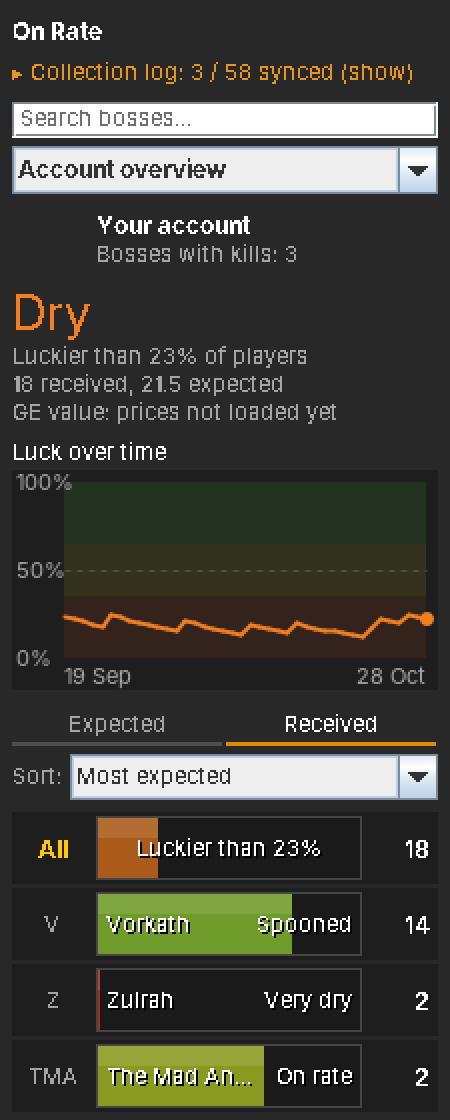
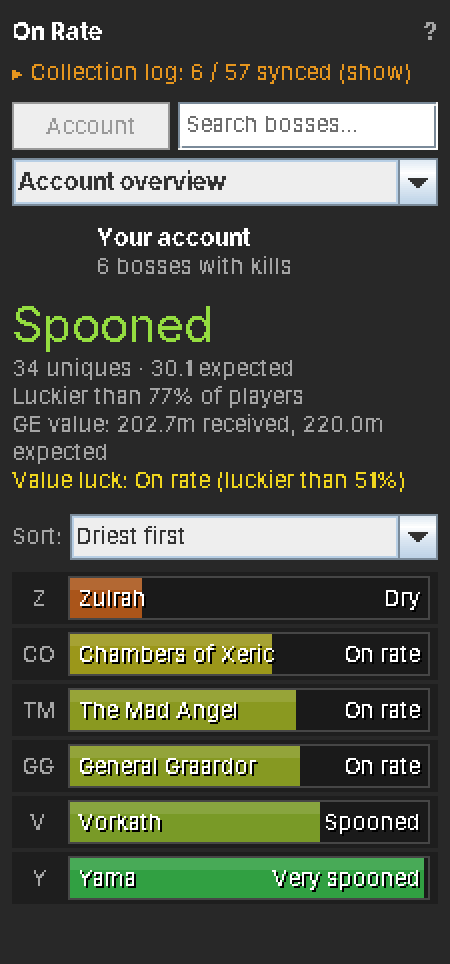
Add files via upload

diff --git a/README.md b/README.md
@@ -6,10 +6,9 @@
 > The Delve Calculator shows expected vs received drops for Doom of Mokhaiotl, and On Rate exists because that panel was so good that I wanted it for every boss. The layout, the Expected/Received split and the per-level Doom rates all come from Speaax's work. If you mainly do Doom, go and install the Delve Calculator too: it has Doom-specific features this plugin doesn't. See [Credits](#credits).
 
 <p>
-<img src="docs/doom-expected.png" width="225" alt="Doom of Mokhaiotl, Expected tab">
-<img src="docs/doom-received.png" width="225" alt="Doom of Mokhaiotl, Received tab">
-<img src="docs/vorkath-expected.png" width="225" alt="Vorkath, Expected tab">
-<img src="docs/vorkath-received.png" width="225" alt="Vorkath, Received tab">
+<img src="docs/boss-page.png" width="225" alt="Boss page">
+<img src="docs/account-overview.png" width="225" alt="Account overview">
+<img src="docs/extras.png" width="225" alt="Boss page with the trip card and drop history turned on">
 </p>
 
 ## Features
@@ -18,10 +17,11 @@
 - **Works out of the box.** Your kill count updates after every kill, and new drops are picked up automatically.
 - **Imports your history** from your collection log, so you don't start from zero.
 - **Luck percentile:** see how your drops compare with every other player at the same kill count.
-- **An "Any" row** that combines all of a boss's uniques.
+- **An "Any unique" row** that combines all of a boss's uniques.
 - **A verdict for every boss**, from "Very dry" to "Very spooned", in big letters at the top.
+- **A clean layout:** one bar per item shows what you got against where you should be. Prefer another look? Choose the Delve Calculator's bars, a compact table, chance rings or a luck gauge.
 - **Account overview:** every boss added up into one total, with a row per boss that you can sort (driest first, luckiest first...), plus **GE value luck**, so two twisted bows count for more than a pile of cheap drops.
-- **Luck graph:** how your account's luck changes day by day.
+- **Optional extras:** a luck graph, a "this trip" card, drop history timelines, an in-game overlay and colour-blind colours.
 - **Uses your raid points:** read from the game in Chambers of Xeric and estimated from your damage in Tombs of Amascut, so each raid gets its own purple chance. Based on [Raid Data Tracker](https://github.com/Raitab/raid-data-tracker) (see [Credits](#credits)).
 - **Search box:** type "vork", "cox" or "kril" to jump to a boss.
 - **Dry streaks:** hover any item to see how many kills since your last copy, and how many times the drop rate that is.
@@ -49,40 +49,43 @@ The first time you open the panel, a short welcome guide walks you through this.
 
 ## Reading the panel
 
-Pick a boss from the dropdown, or let the panel follow your kills. To find a boss quickly, type in the search box above the dropdown: part of the name ("vork", "kril") or the usual short name ("cox", "tob", "toa", "dk"). Enter opens the first match.
+Pick a boss from the dropdown, or let the panel follow your kills. To find a boss quickly, type in the search box above the dropdown: part of the name ("vork", "kril") or the usual short name ("cox", "tob", "toa", "dk"). Enter opens the first match. The **Account** button next to it always takes you back to the account overview. The **?** at the top right explains what you're looking at.
 
-At the top you see the boss, your kill count and the **verdict** in big letters: Very dry, Dry, On rate, Spooned or Very spooned. Under it, how lucky you are compared with other players and how many uniques you got against how many you should have.
+### Boss page
+
+- At the top: the boss, your kill count and the **verdict** in big letters: Very dry, Dry, On rate, Spooned or Very spooned. Under it, how many uniques you got against how many you should have, and how you compare with other players at the same kill count ("luckier than 70%" means 70% of them have fewer drops than you).
+- Then one row per item, with **Any unique** first. The bar's fill is how many you got; the **white line** is how many you should have by now. Behind the line is dry, past it is spooned.
+- **Hover an item** for its drop rate, your chance of having it by now, how many kills give a 50% or 90% chance, and your **dry streak**: kills since your last copy and how many times the drop rate that is. If your last copy dropped before you installed On Rate, it says "at least".
 
 ### Account overview
 
-The first entry in the dropdown, and what the panel opens on. It adds up every boss you have kills at:
+What the panel opens on. It adds up every boss you have kills at:
 
-<img src="docs/account-overview.png" width="225" alt="Account overview with the luck graph">
+- The **verdict** at the top is your whole account.
+- **GE value** compares the Grand Exchange value of what you got with what you should have had, and gives its own verdict. An account that's dry on the number of drops but hit two twisted bows shows up as spooned here. Prices come from RuneLite's own price list, so On Rate makes no web requests. Untradeable items like pets and jars count for the number of uniques but as 0 GP for value. You can hide it in the settings.
+- One row per boss with its verdict. Use **Sort** to put the most expected, driest, luckiest, most killed or alphabetical first. Click a boss to open it, or hover it to see its driest item.
 
-- The **"All"** row is your whole account: how many uniques you should have had by now, against how many you got.
-- The **verdict** at the top sums up your whole account. The scale runs Very dry, Dry, On rate, Spooned, Very spooned.
-- **Luck over time** is a graph of your account's luck: one point per day you play, from 0% (driest) to 100% (most spooned). The middle band is "on rate". Hover the graph to see a day's numbers. It starts on the day you install On Rate (or update to this version), so it takes a couple of days before you see a line. Loading your collection log pages makes the line jump on the first day; that's your history coming in.
-- **GE value** compares the Grand Exchange value of what you got with what you should have had, and gives its own verdict. An account that's dry on the number of drops but hit two twisted bows shows up as spooned here. Prices come from RuneLite's own price list, so On Rate makes no web requests. Untradeable items like pets and jars count for the number of uniques but as 0 GP for value.
-- Below that is one row per boss. On the Received tab each row shows the boss's verdict. Use **Sort** to put the most expected, driest, luckiest, most killed or alphabetical first. Click a row to open that boss.
+### Other views
 
-### Expected tab
+Prefer something else than the bars? Pick a **Luck view** in the settings:
 
-Works exactly like the Delve Calculator:
+<img src="docs/luck-views.png" alt="The other luck views">
 
-- The **number on the right** is how many of that item you should have by now.
-- The **bar** is your progress towards the next one.
+- **Target bars** (default): described above.
+- **Bars with tabs (Delve Calculator):** the classic Expected and Received tabs. On *Expected* the number is how many you should have and the bar your progress to the next one ("Any · 41.8% · 4" means 4.418 uniques by now); on *Received* the number is how many you got and the bar how lucky that is.
+- **Compact table:** one line per item: got / expected and a luck percentage.
+- **Chance rings:** each ring fills up as your chance of having the item grows. Once you have it, the ring shows your chance of the next one by now.
+- **Luck gauge:** a speedometer from dry to spooned, with every item (or boss) as a dot on the same scale.
 
-For example, **"Any · 41.8% · 4"** means you should have had 4.418 uniques by now: four whole drops, and 41.8% of the way to a fifth.
+### Extras
 
-### Received tab
+All off by default; turn them on in the settings under **Display**.
 
-- The **number on the right** is how many you actually got.
-- The **bar** shows how lucky that is: *"Luckier than 74%"* means 74% of players with the same kill count have fewer drops than you. 50% is exactly average.
-- **Colours:** red is dry, yellow is about average, green is spooned.
-
-### Dry streaks
-
-Hover any item to see its **dry streak**: how many kills since your last copy, and how many times the drop rate that is ("82 kills since your last one, that's 1.6× the drop rate"). If your last copy dropped before you installed On Rate, it says "at least", because the streak counts from when On Rate started tracking. In the account overview, hover a boss to see its driest item right now.
+- **Luck graph:** your account's luck over time, one point per day you play, in the account overview. On Rate saves a point every day even while the graph is hidden, so it has data when you turn it on.
+- **This trip card:** kills, uniques and expected for your current trip on the boss page, plus kills per hour and the drops you got. A trip ends when you kill another boss, after 30 minutes without a kill, or with the *Start a new trip* button.
+- **Drop history:** a timeline per item with the kills your drops came at, the average spacing and your current dry streak. Only drops On Rate saw itself are known.
+- **In-game overlay:** a small box on the game screen while you kill a boss: verdict, uniques, your driest item and the trip.
+- **Colour-blind colours:** orange to blue instead of red to green.
 
 ## Supported bosses
 
@@ -103,6 +106,8 @@ Open the settings with the cog next to **On Rate** in the Configuration panel.
 - **Sync reminders:** the chat reminder after killing a boss that isn't synced yet. On by default.
 - **Drop messages:** a chat line when you get a unique, saying how many kills it took. On by default.
 - **Dry milestone messages:** a chat line when you pass 1x, 2x, 3x, 5x or 10x the drop rate dry on an item. On by default.
+- **Luck view:** how your luck is shown (see [Other views](#other-views)).
+- **GE value**, **Luck graph**, **This trip card**, **Drop history**, **In-game overlay** and **Colour-blind colours**: see [Extras](#extras). Only GE value is on by default.
 - **Royal Titans:** choose **Solo**, **Duo** or **Some of each**. With *Some of each*, also enter how many of your kills were in a duo; the rest count as solo. In a duo you get about half the uniques of a solo kill, while the pet chance stays the same.
 - **Use raid points:** at the end of each raid, On Rate saves your points with the completion and works out that raid's purple chance from them. On by default. How it gets the points:
   - **Chambers of Xeric:** read straight from the game when "Congratulations - your raid is complete!" appears: your points, the team's points and the team size.
